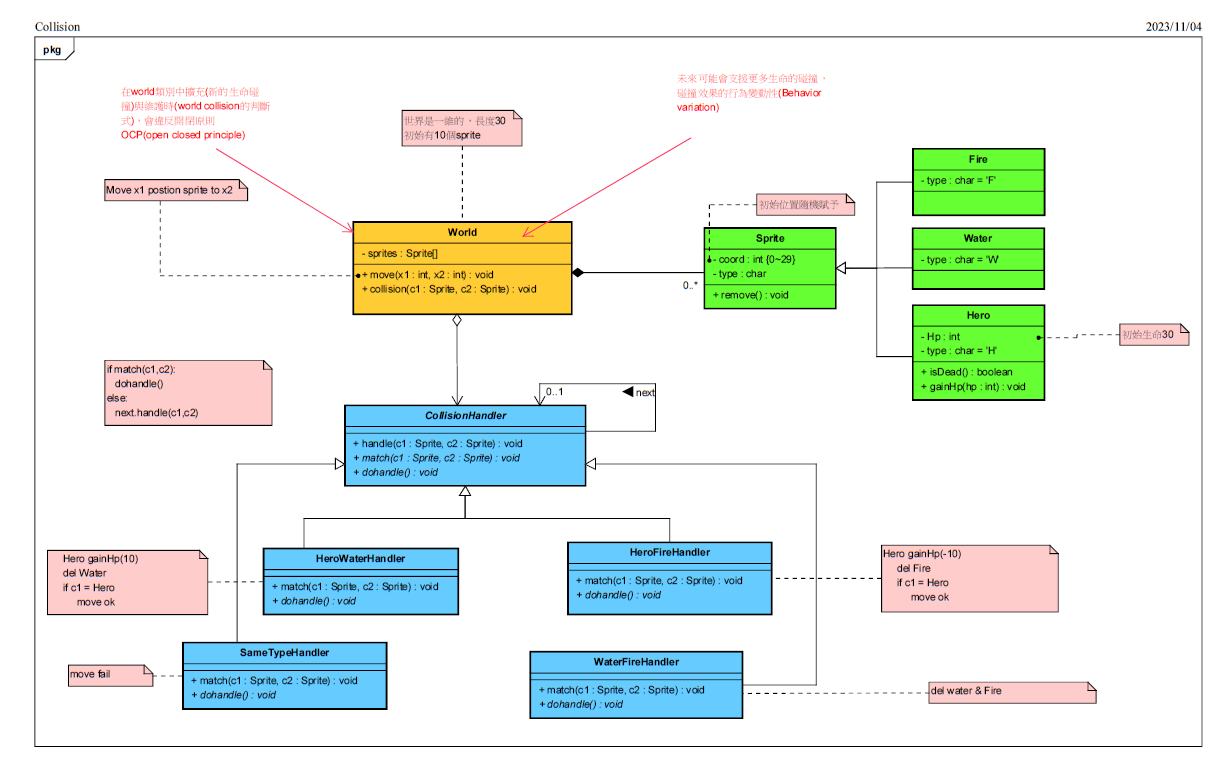
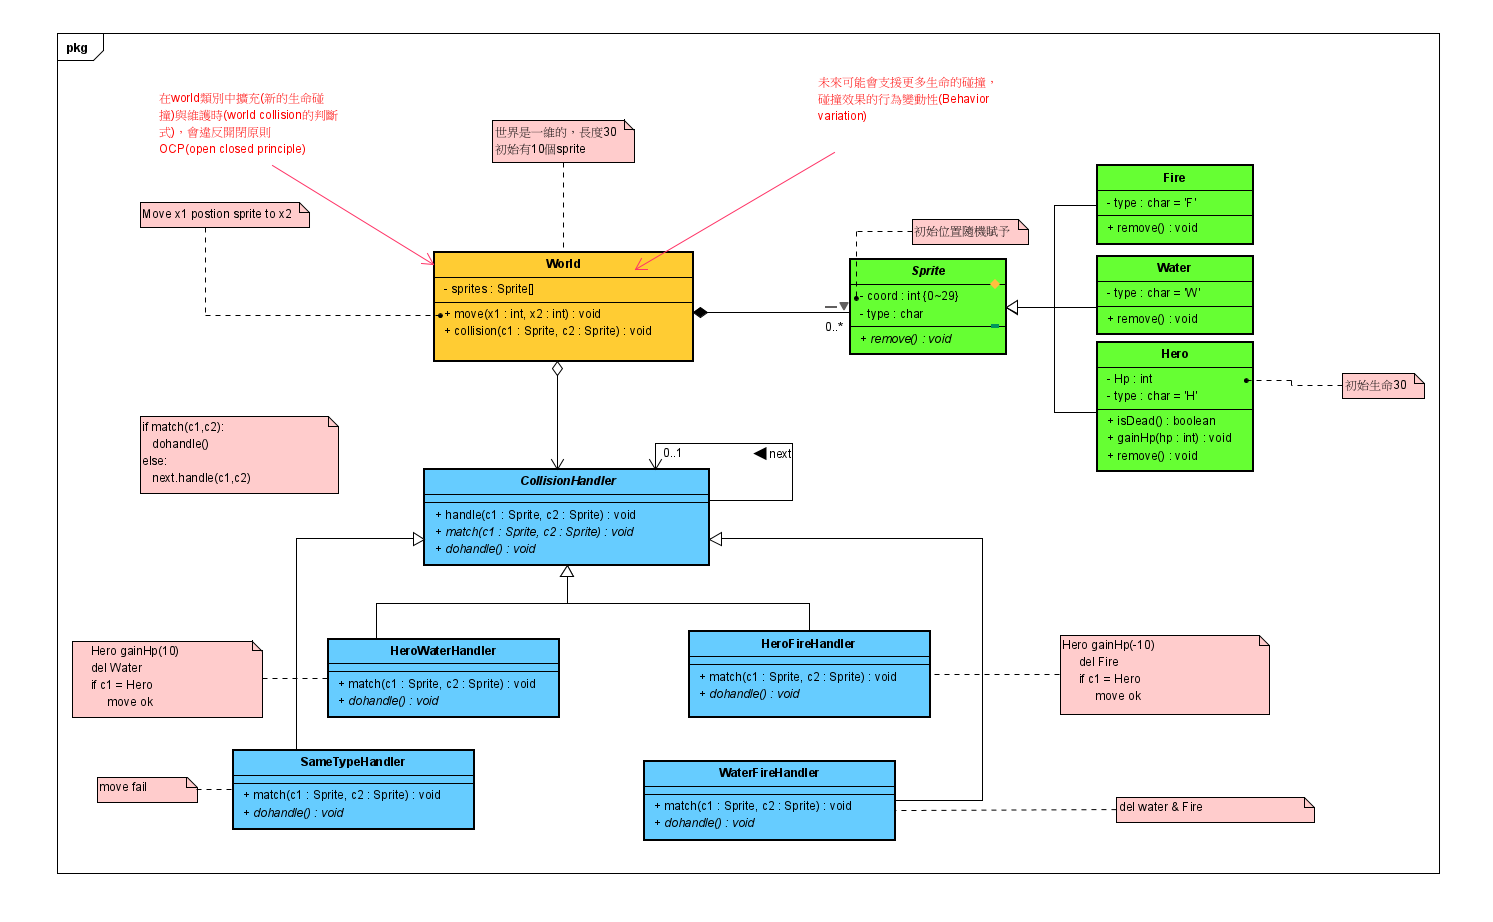
Sprite virtual function done

diff --git a/Collision/src/Hero.cpp b/Collision/src/Hero.cpp
@@ -6,6 +6,11 @@ Hero::Hero(/* args */):Sprite('H')
     this->hp = 30;
 }
 
+void Hero::Remove()
+{
+    this->~Hero();
+}
+
 void Hero::GainHp(int hp)
 {
     this->hp += hp;
@@ -23,4 +28,5 @@ int Hero::GetHp()
 
 Hero::~Hero()
 {
+    delete this;
 }

diff --git a/Collision/include/Sprite.hpp b/Collision/include/Sprite.hpp
@@ -14,8 +14,7 @@ private:
 public:
     Sprite(char type);
     ~Sprite();
-    //TODO : need to virtual function
-    void Remove();
+    virtual void Remove();
     static Sprite* RandGenSprite();
 
     //getter

diff --git a/Collision/src/Fire.cpp b/Collision/src/Fire.cpp
@@ -2,12 +2,16 @@
 
 Fire::Fire(/* args */):Sprite('F')
 {
+}
 
+void Fire::Remove()
+{
+    this->~Fire();
 }
 
 Fire::~Fire()
 {
-    
+    delete this;
 }
 
 

diff --git a/Collision/src/Water.cpp b/Collision/src/Water.cpp
@@ -4,6 +4,12 @@ Water::Water(/* args */):Sprite('W')
 {
 }
 
+void Water::Remove()
+{
+    this->~Water();
+}
+
 Water::~Water()
 {
+    delete this;
 }

diff --git a/Collision/include/Hero.hpp b/Collision/include/Hero.hpp
@@ -11,6 +11,7 @@ private:
 public:
     Hero(/* args */);
     ~Hero();
+    void Remove() override;
     void GainHp(int hp);
     bool IsDead();
 

diff --git a/Collision/include/Water.hpp b/Collision/include/Water.hpp
@@ -10,6 +10,7 @@ private:
 public:
     Water(/* args */);
     ~Water();
+    void Remove() override;
 };
 
 #endif /* _WATER_H_ */

diff --git a/Collision/include/Fire.hpp b/Collision/include/Fire.hpp
@@ -11,6 +11,7 @@ private:
 public:
     Fire(/* args */);
     ~Fire();
+    void Remove() override;
 };
 
 #endif /* _FIRE_H_ */
